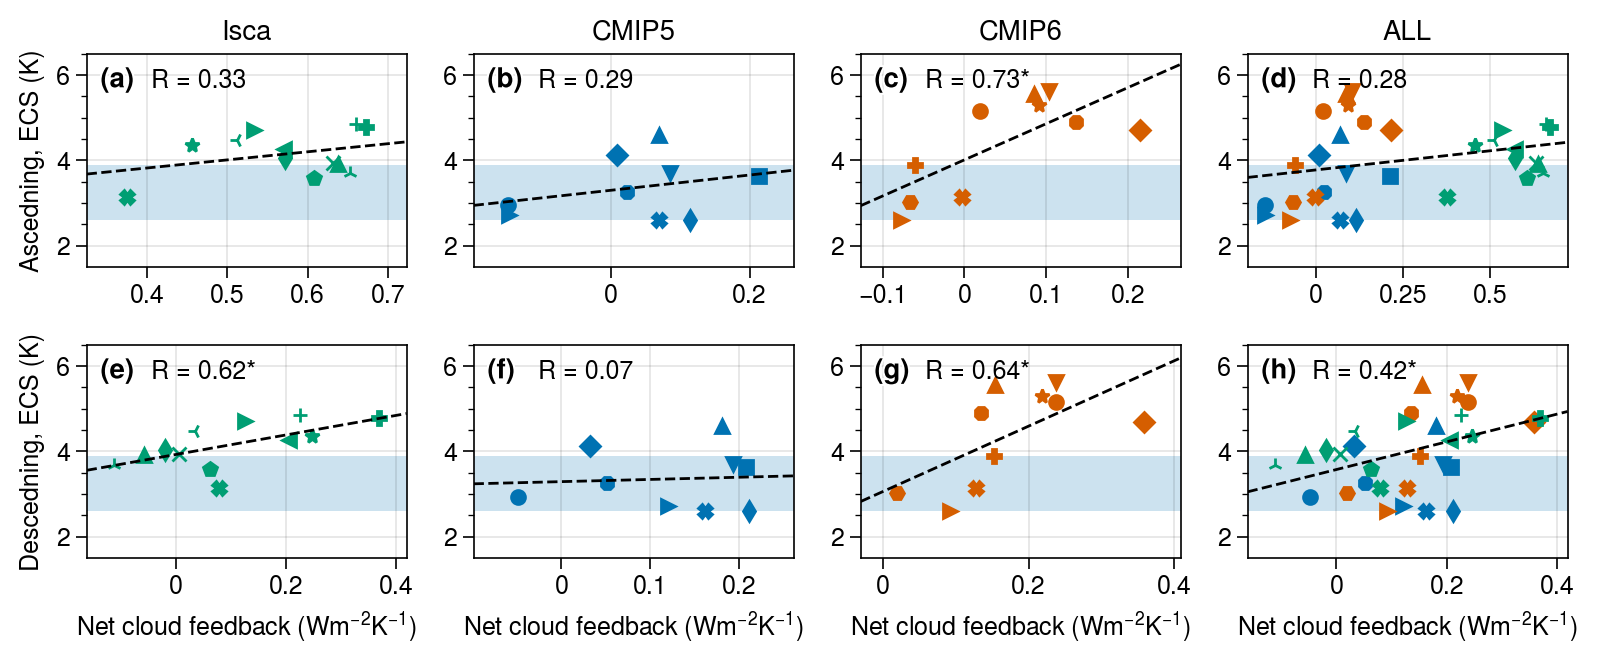
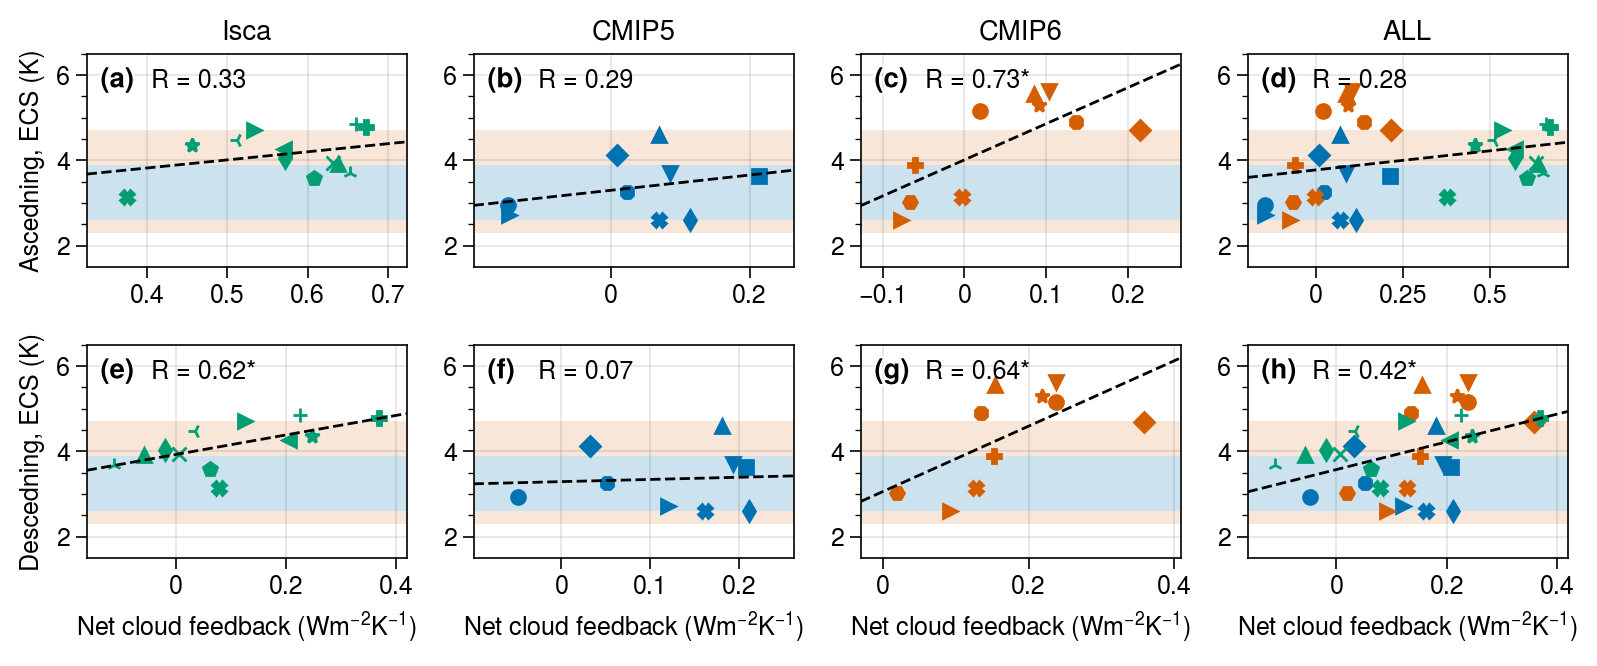
update ECS vs cld fbk figure with 5%-95% percentiles

diff --git a/chapter/changes_of_CRE.tex b/chapter/changes_of_CRE.tex
@@ -481,7 +481,7 @@ In fact, despite the prediction from the multiple linear regression model is not
     \label{tab:ECS_forcing_feedback}
 \end{table}
 
-The simulations from Isca PPE have produced a certain range in cloud feebdacks, as discussed in \secref{sec:spread_of_cld_fbk_in_PPE}, so what are the implications for the ECS? To answer this question, we first evaluate the ECS from Isca simulations based on the method proposed by \cite{Gregory2004}. That is to say, the TOA radiation imbalances are plotted versus the surface air temperature anomalies between control and quadruple CO$_2$ simulations, in which the half of the x-axis intercept is the ECS, as the effective radiative forcing is defined in double CO$_2$ situation. The other derived parameters, climate feedback parameter ($\lambda$; slope) and effective radiative forcing (half of the y-axis intercept), are shown in \tabref{tab:ECS_forcing_feedback}. The Gregory type calculation is possible in current Q-flux setup as the SST can vary in response to the changes in radiative forcing. In Isca PPE, the estimated effective forcing and climate feedback parameters vary due to the changes in parameters of cloud scheme, and thus the derived ECS values also show certain spread. The smallest ECS is 3.08 K in `reffliq\_12` run, while the largest is 4.91 K in `sc\_park\_a\_1` run. 
+The simulations from Isca PPE have produced a certain range in cloud feebdacks, as discussed in \secref{sec:spread_of_cld_fbk_in_PPE}, so what are the implications for the ECS? To answer this question, we first evaluate the ECS from Isca simulations based on the method proposed by \cite{Gregory2004}. That is to say, the TOA radiation imbalances are plotted versus the surface air temperature anomalies between control and quadruple CO$_2$ simulations, in which the half of the x-axis intercept is the ECS, as the effective radiative forcing is defined in double CO$_2$ situation. The other derived parameters, climate feedback parameter ($\lambda$; slope) and effective radiative forcing (half of the y-axis intercept), are shown in \tabref{tab:ECS_forcing_feedback}. The Gregory type calculation is possible in current Q-flux setup as the SST can vary in response to the changes in radiative forcing. In Isca PPE, the estimated effective forcing and climate feedback parameters vary due to the changes in parameters of cloud scheme, and thus the derived ECS values also show certain spread. The smallest ECS is 3.08 K in \textit{reffliq\_12} run, while the largest is 4.91 K in \textit{sc\_park\_a\_1} run. The PPE mean of ECS is 4.12 $\pm$ 0.54 K (1-$\sigma$), within the 5\%--95\% percentile range of the expert assessed range \citep{Sherwood2020}.
 
 % as shown in \figref{fig:ECS_forcing_feedback_in_Isca_PPE}.
 % 4.118714382110627 0.5351870699913492
@@ -489,7 +489,7 @@ The simulations from Isca PPE have produced a certain range in cloud feebdacks, 
 \begin{figure}[ht]
     \centering
     \includegraphics[width=0.9\linewidth]{{figs/change_of_CRE/ECS_vs_cldfbk_all_ALL_cmip56_isca}.png}
-    \caption{The scatter plot of equilibrium climate sensitivity (ECS; K) against the net cloud feedbacks (Wm$^{-2}$K$^{-1}$) from different models and different regions. Rows from top to bottom are for Isca (green), CMIP5 (blue), CMIP6 (orange) models and all of them, respectively. From left to right, the columns are for global, tropical (30$^\circ$S--30$^\circ$N), midlatitude (30-60$^\circ$), and high latitude (60-90$^\circ$) regions, respectively. The shaded indicates the 17th and 83rd percentile range of the Baseline probability density function of ECS from \cite{Sherwood2020}. The dashed lines are liner regression of ECS against cloud feedbacks, and the the correlation coefficient ($R$) with asterisk is above 95\% confidence interval.}
+    \caption{The scatter plot of equilibrium climate sensitivity (ECS; K) against the net cloud feedbacks (Wm$^{-2}$K$^{-1}$) from different models and different regions. Rows from top to bottom are for Isca (green), CMIP5 (blue), CMIP6 (orange) models and all of them, respectively. From left to right, the columns are for global, tropical (30$^\circ$S--30$^\circ$N), midlatitude (30-60$^\circ$), and high latitude (60-90$^\circ$) regions, respectively. The blue shaded indicates the 17th and 83rd percentile range of the Baseline probability density function of ECS from \cite{Sherwood2020}, while the orange shaded indicates the 5th to 95th percentile range. The dashed lines are liner regression of ECS against cloud feedbacks, and the the correlation coefficient ($R$) with asterisk is above 95\% confidence interval.}
     \label{fig:ECS_vs_cld_fbk_from_diff_regions}
 \end{figure}
 
